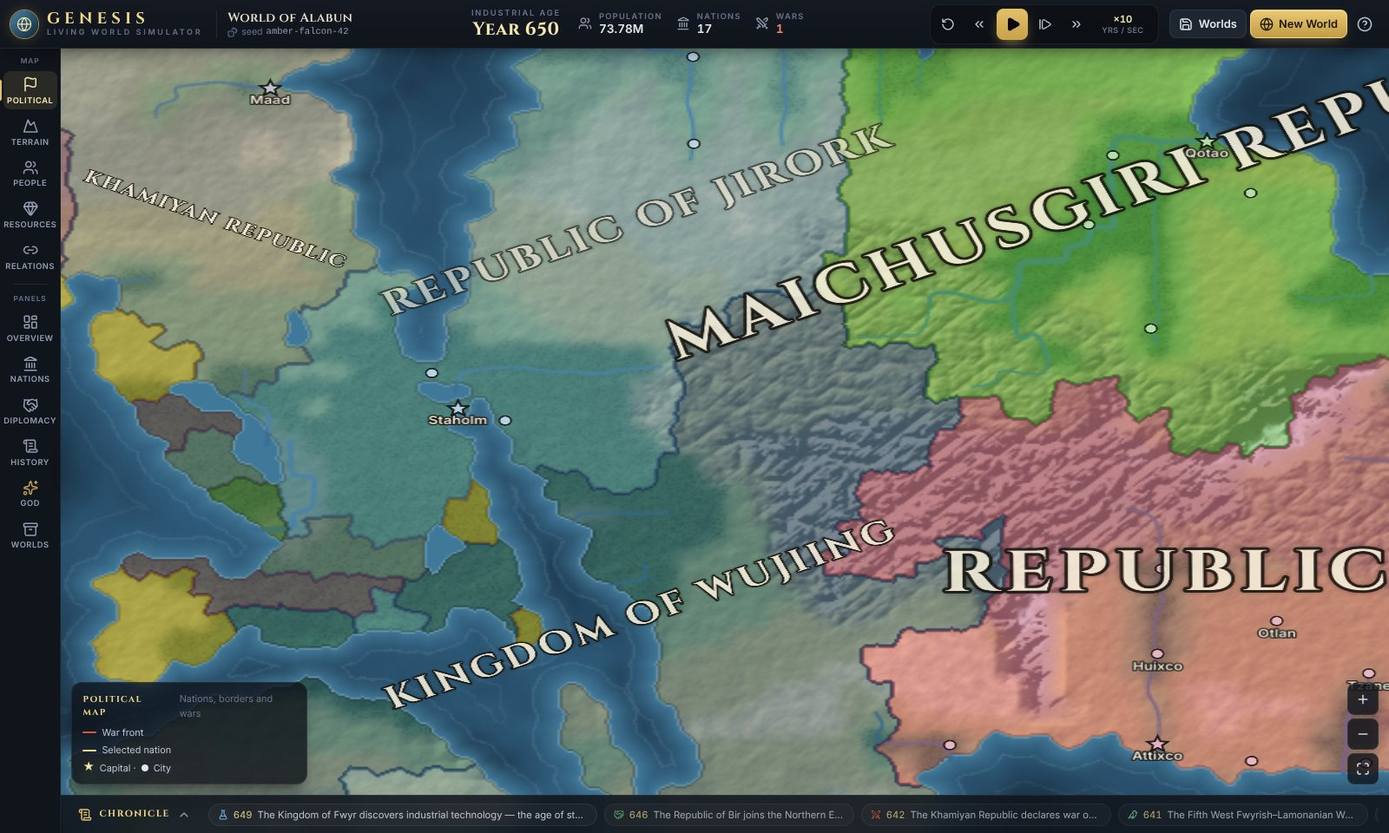
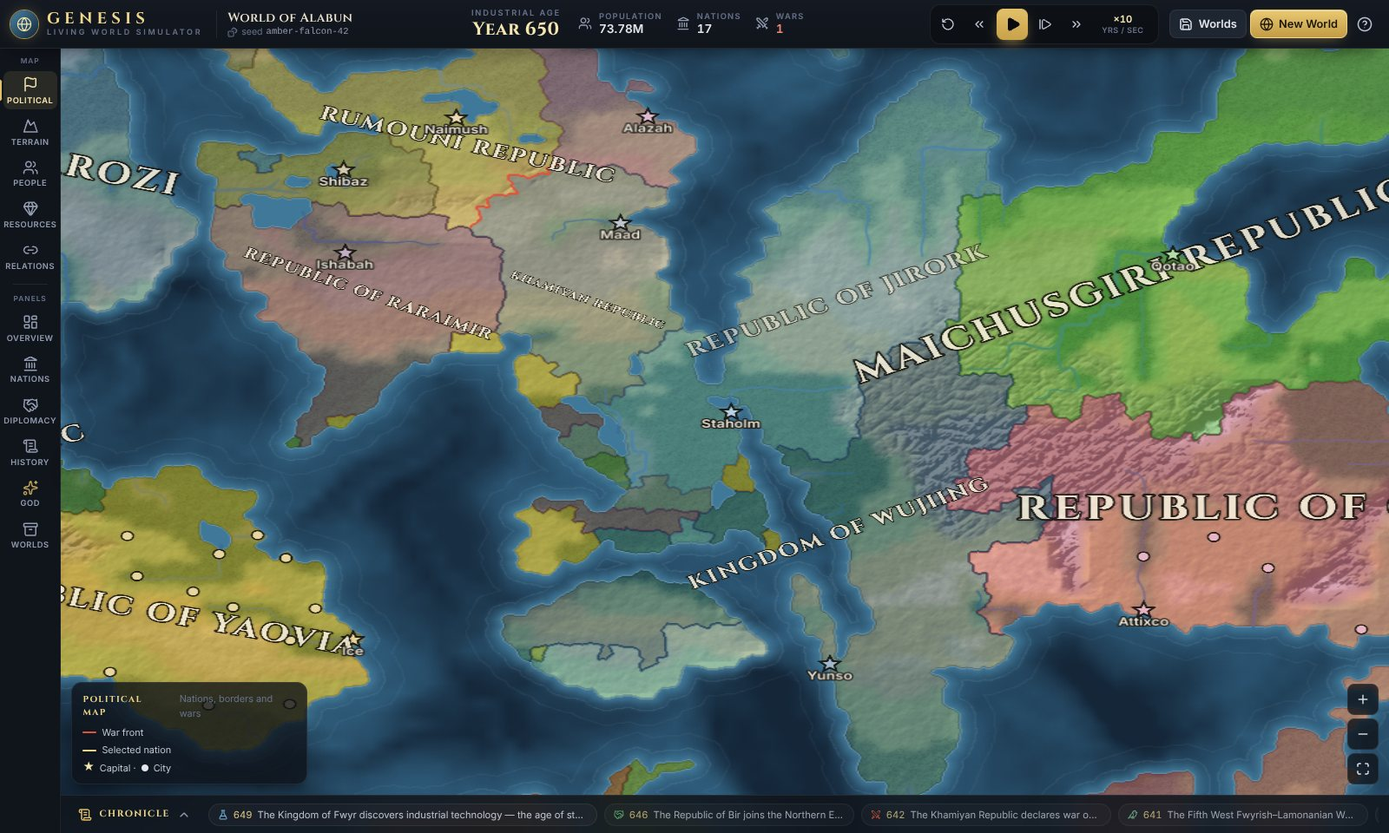
Align docs with the code; consistent map-mode names; Space starts history
An audit of README.md and ARCHITECTURE.md against the source turned up
claims that were overstated or imprecise. The docs now match the code:
- README: Shift+→ steps ten years; Esc and right-click rows; ? opens help;
  which actions ask for confirmation; the inspector's actual charts;
  capitals always marked; renderer fallbacks; seeded streams.
- ARCHITECTURE: forced wars log a war event; which cache parts are rebuilt
  when; revenue scales with stability; city spacing is measured through
  own territory; defection follows the parent's instability; the exact
  invariants and God Mode test coverage; overlay repaint cadence.

App changes that make the docs true instead of weakening them:
- The intro's "Let history begin" button takes focus, so Space or Enter
  starts the simulation.
- Map modes now have one set of names everywhere (Political, Terrain,
  Population, Resources, Relations) instead of the legend and help using
  Geographic and Diplomacy while the rail said Terrain and Relations.

Screenshots retaken with the new legend names.

Claude-Session: https://claude.ai/code/session_012uVSt1fJZfjZVTZBihtzJo

diff --git a/src/components/Dialogs.tsx b/src/components/Dialogs.tsx
@@ -161,7 +161,7 @@ function HelpDialog() {
         <div className="grid gap-3 md:grid-cols-2">
           <HelpItem icon={<Play />} title="Time">
             <p>
-              <span className="kbd">Space</span> plays or pauses. <span className="kbd">+</span>/<span className="kbd">-</span> change speed (1–80 years per second). <span className="kbd">.</span> advances one year while paused.
+              <span className="kbd">Space</span> plays or pauses. <span className="kbd">+</span>/<span className="kbd">-</span> change speed (1–80 years per second). <span className="kbd">.</span> or <span className="kbd">→</span> advances one year while paused, <span className="kbd">Shift</span>+<span className="kbd">→</span> ten years.
             </p>
           </HelpItem>
           <HelpItem icon={<MousePointerClick />} title="The map">
@@ -169,7 +169,7 @@ function HelpDialog() {
           </HelpItem>
           <HelpItem icon={<MapIcon />} title="Map modes">
             <p>
-              <span className="kbd">1</span> Political · <span className="kbd">2</span> Geographic · <span className="kbd">3</span> Population · <span className="kbd">4</span> Resources · <span className="kbd">5</span> Diplomacy (relations of the selected nation, or alliance blocs).
+              <span className="kbd">1</span> Political · <span className="kbd">2</span> Terrain · <span className="kbd">3</span> Population · <span className="kbd">4</span> Resources · <span className="kbd">5</span> Relations (of the selected nation, or alliance blocs when none is selected).
             </p>
           </HelpItem>
           <HelpItem icon={<Keyboard />} title="Panels">
@@ -188,6 +188,7 @@ function HelpDialog() {
           <button
             type="button"
             className="btn btn-gold px-6 py-2.5 text-[0.85rem]"
+            autoFocus
             onClick={() => {
               close();
               if (!running) controller.play();

diff --git a/src/rendering/overlay.ts b/src/rendering/overlay.ts
@@ -9,10 +9,10 @@ export type MapMode = 'political' | 'geographic' | 'population' | 'resources' | 
 
 export const MAP_MODES: { id: MapMode; label: string; key: string; description: string }[] = [
   { id: 'political', label: 'Political', key: '1', description: 'Nations, borders and wars' },
-  { id: 'geographic', label: 'Geographic', key: '2', description: 'Terrain, biomes and rivers' },
+  { id: 'geographic', label: 'Terrain', key: '2', description: 'Relief, biomes and rivers' },
   { id: 'population', label: 'Population', key: '3', description: 'Where people live' },
   { id: 'resources', label: 'Resources', key: '4', description: 'Strategic and luxury deposits' },
-  { id: 'diplomacy', label: 'Diplomacy', key: '5', description: 'Relations of the selected nation' },
+  { id: 'diplomacy', label: 'Relations', key: '5', description: 'Alliances, rivalries and wars' },
 ];
 
 /** Diplomatic categories used by the diplomacy map mode and its legend. */

diff --git a/ARCHITECTURE.md b/ARCHITECTURE.md
@@ -27,11 +27,11 @@ The simulation (`src/simulation`, `src/world`, `src/utils`) imports nothing from
 
 - **`WorldMap`** (static): typed arrays over a `width × height` grid (160×100 by default) holding elevation, temperature, moisture, biome, river magnitude and direction, resource deposit, landmass id, coastal flag and distance to shore. It also holds precomputed per-tile yields (food, timber, stone, iron, trade), movement cost, defensive value and settlement appeal.
 - **`World`** (dynamic): per-tile `owner`, `pop`, `culture`, `devastation`, `blight` and `cityAt`, plus arrays of `civs`, `cultures`, `cities`, `relations`, `wars`, `events`, global `history` samples, the `commandLog`, the RNG and the name registry.
-- **`Civ`**: identity (names, colour, culture, government, personality, leader), aggregates refreshed every year (population, territory, output, revenue, army power), stockpiles (food, timber, stone, iron, wealth), technology points and era, politics (stability, happiness, legitimacy, unrest, war exhaustion), budget shares, needs, effects (booms, golden ages, plague, fervour…), counters, and sampled history for charts. Dead nations stay in `world.civs` with `alive = false`, `extinctYear` and `fate`, so the archive keeps them.
+- **`Civ`**: identity (names, colour, culture, government, personality, leader), aggregates refreshed every year (population, territory, output, revenue, army power), stockpiles (food, timber, stone, iron, wealth), technology points and era, politics (stability, happiness, legitimacy, unrest, war exhaustion), budget shares, needs, effects (booms, golden ages, divine favour, turmoil, scientific revolutions, fervour), plague severity and immunity, counters, and sampled history for charts. Dead nations stay in `world.civs` with `alive = false`, `extinctYear` and `fate`, so the archive keeps them.
 - **`Relation`**: one record per pair that has met, holding opinion (−100..100), alliance (with a bloc name), trade, rivalry, truce, war count, grievance and the shared border length.
 - **`War`**: participants with sides, cause, war score, battles, losses, tiles and cities taken, and an outcome and summary once it ends.
 - **`HistoryEvent`**: year, type, involved nation ids, text, importance (1–5), map tile and war id.
-- **`WorldCache`**: derived data such as relation index, borders, per-civ tile lists, distance-to-city and distance-to-capital fields, and active wars. It is never saved. It is rebuilt from the authoritative state at the end of every year, after every God Mode command, and on load.
+- **`WorldCache`**: derived data such as relation index, borders, per-civ tile lists, distance-to-city and distance-to-capital fields, and active wars. It is never saved. Its territory data (tile lists, borders, distance fields) is rebuilt from the authoritative state at the end of every year and after every God Mode command. The relation index and active-war list are kept in sync as they change, and everything is rebuilt on load.
 
 ## World generation (`src/world/generate.ts`)
 
@@ -44,7 +44,7 @@ The simulation (`src/simulation`, `src/world`, `src/utils`) imports nothing from
 7. **Resources** (iron, gold, marble, timber, fish, horses, spices and fertile soil) are placed by biome rules and clustered with noise.
 8. **Yields** combine the biome base with river floodplains (deserts with rivers bloom), coasts, lakes, deposits and a cold penalty, and are summarised into a 0–1 appeal score.
 
-Generation is deterministic per seed and takes about 150 ms for 160×100.
+Generation is deterministic per seed and takes about 0.1 seconds for 160×100.
 
 ## The yearly tick (`src/simulation/engine.ts`)
 
@@ -68,14 +68,14 @@ All per-tile work happens in a handful of linear passes over the grid using prec
 
 - **Food.** Each tile's food capacity is `yield × 10 × era.food × (1 − blight) × (1 − 0.6·devastation)`, in thousand person-years. Production is `min(pop × labour, capacity)`, where labour productivity rises with the era. Consumption is one unit per thousand people. Nations pool their food. Surpluses fill granaries (about one year of reserves) and the excess is sold. Deficits are covered by limited, priced imports, and the rest is **famine**: mortality proportional to the shortfall, with cities hit hardest, plus unhappiness and instability.
 - **Rural population** grows logistically toward `capacity × era.ruralShare`. **Cities** add urban capacity driven by the surrounding countryside, trade, era, capital status and stability, and only grow while the nation has a food surplus. Migration evens out crowding between neighbouring tiles of the same nation, which drives urbanisation.
-- **Output** comes from people, trade yields, urban productivity, administrative **control** (distance to the nearest city and to the capital), devastation, the era's productivity, stability, effects, and trade agreements (scaled by both partners' economies). **Revenue** is output times the government's tax efficiency.
+- **Output** comes from people, trade yields, urban productivity, administrative **control** (distance to the nearest city and to the capital), devastation, the era's productivity, stability, effects, and trade agreements (scaled by both partners' economies). **Revenue** is output times the government's tax rate, scaled by stability.
 - **Budget.** Revenue is split between military, research and development. The split starts from personality traits and shifts with circumstances: war, losing a war, famine and land hunger.
 - **Army.** Recruits up to what the military budget can pay for and what manpower allows, which depends on government, aggression and wartime mobilisation. War chests can fund extra levies, unpaid armies desert, and iron shortages weaken troops. **Army power** = soldiers × era × government × leader × iron × horses × stability × exhaustion × fervour.
-- **Research** grows with `population^0.55` and the square root of research spending, multiplied by government, leader, personality, stability, peace, effects, and **diffusion** from more advanced trade partners and neighbours. The sub-linear terms stop runaway snowballing, so nations advance at very different speeds.
+- **Research** grows with `population^0.55` and the square root of research spending, multiplied by government, leader, personality, stability, peace, effects, and **diffusion** from more advanced trade partners and neighbours. The sub-linear terms stop runaway snowballing, while spending, government and diffusion still let nations advance at different speeds.
 
 ### Expansion and settlement (`expansion.ts`)
 
-Development spending builds *expansion points*; population pressure adds more. Each year a nation claims the best unclaimed tiles bordering its land. A tile's score combines appeal, the nation's current needs (food, iron, timber, stone), rivers, coasts and compactness, and its cost rises with movement cost and distance from the capital. Nations with a short frontier search overseas with a breadth-first search across the sea, whose reach grows with the era from 2 tiles to 200, and record their landings on new continents. *Development points* found cities at the best site at least five steps from existing cities, and rebuild ruins inside the nation's borders. Running out of land builds **land hunger**, which feeds war motives.
+Development spending builds *expansion points*; population pressure adds more. Each year a nation claims the best unclaimed tiles bordering its land. A tile's score combines appeal, the nation's current needs (food, iron, timber, stone), rivers, coasts and compactness, and its cost rises with movement cost and distance from the capital. Nations with a short frontier search overseas with a breadth-first search across the sea, whose reach grows with the era from 2 tiles to 200, and record their landings on new continents. *Development points* found cities (each costs timber and stone) at the best site at least five steps, through the nation's own territory, from its nearest city, and rebuild ruins inside its borders. Running out of land builds **land hunger**, which feeds war motives.
 
 ### Technology (`technology.ts`, `constants.ts`)
 
@@ -103,9 +103,9 @@ There are eight eras: Ancient, Classical, Medieval, Renaissance, Industrial, Mod
 - **Happiness** depends on food, prosperity per head, taxes for the army, war, exhaustion, plague, foreign rule and effects. **Stability** depends on government, leader, tradition, happiness, legitimacy, **overextension** (land beyond administrative capacity), war exhaustion, famine, plague, foreign populations, debt, effects and **regime ossification** (old dynasties lose their grip).
 - **Crises.** Low stability and low happiness build unrest, which can turn into one of these:
   - **Revolution**: the government changes in a way that fits the era, such as a monarchy becoming a republic, a coup creating a dictatorship, or a strongman proclaiming an empire.
-  - **Secession**: the most populous restless region breaks away. Garrisons defect, more so the weaker the parent. If the region's culture belonged to a fallen nation, that nation is **restored**. Rivals may intervene on the rebels' side.
+  - **Secession**: the most populous restless region breaks away. Garrisons defect, more so the less stable the parent. If the region's culture belonged to a fallen nation, that nation is **restored**. Rivals may intervene on the rebels' side.
   - **Civil war**: the realm splits between the capital and a distant great city, and the rebel faction takes the opposite style of government.
-- **Collapse.** Ten years of deep crisis break a nation into successor states around its great cities, often restorations of older nations. Ungoverned outlying land is abandoned to ruin, and the archive records "collapsed after N years".
+- **Collapse.** A nation that spends about ten years in deep crisis (stability below 12) breaks into successor states around its great cities, often restorations of older nations. Ungoverned outlying land is abandoned to ruin, and the archive records "collapsed after N years".
 - **Reforms.** Stable nations evolve peacefully: tribes unite into kingdoms, conquerors proclaim empires, merchant oligarchies take power, constitutions create republics, and multicultural modern states federate.
 
 ### Disasters and fortune (`disasters.ts`)
@@ -114,7 +114,7 @@ Droughts strike dry farmland. Earthquakes strike rugged, populated land. **Plagu
 
 ### God Mode (`commands.ts`)
 
-`executeCommand(world, command)` validates and applies an intervention between ticks, logs a `divine` event, and appends `{ year, command }` to `world.commandLog`. Commands: `spawn_civ`, `grant_resources`, `economic_boom`, `famine`, `plague`, `earthquake`, `flood`, `force_war`, `force_peace`, `tech_boost`, `destabilize`, `bless`. `advance(world, years, schedule)` replays a log deterministically.
+`executeCommand(world, command)` validates and applies an intervention between ticks, records it in the chronicle (as a `divine` event, except that a forced war is logged as a `war` event), and appends `{ year, command }` to `world.commandLog`. Commands: `spawn_civ`, `grant_resources`, `economic_boom`, `famine`, `plague`, `earthquake`, `flood`, `force_war`, `force_peace`, `tech_boost`, `destabilize`, `bless`. `advance(world, years, schedule)` replays a log deterministically.
 
 ## Determinism and persistence
 
@@ -135,26 +135,26 @@ Checked by the tests and when loading:
 - Cities match `cityAt`, and ruins have no owner.
 - Relations are ordered, unique, between living nations, with opinion in range.
 - Active wars have living participants on both sides, and no nation fights on both.
-- All numeric state is finite.
+- Tile populations, relation opinions and each nation's core figures (population, food, wealth, army, research, stability, happiness, iron, timber, stone) are finite. Stability stays within 0–100, and populations and armies are never negative.
 
 ## Rendering (`src/rendering`)
 
 - **Pixel grid.** The map is painted at about 1.6 megapixels (10 px per tile on the default map). Each pixel belongs to exactly one tile through a smooth domain warp. Coastlines follow a noise-perturbed bilinear iso-line of the land mask, and inland pixels go to the nearest **jittered** tile centre. Square tiles become irregular, organic cells. The same lookup is used for drawing and for mouse picking.
-- **Terrain painter** (pure, runs once per world): biome colours blended across cells and tinted by climate, an interpolated elevation field with ridged mountain detail, hillshading, snow, forest stipple, dunes, paper grain, an inked coastline, coastal shallows with old-chart contour lines, sea ice, and smoothed rivers drawn as curves whose width grows downstream.
-- **Overlay painter.** Per-tile fill colours for the current map mode, and two-pixel borders wherever the border key changes. Borders are coloured by nation, red on war fronts and gold for the selection. It repaints only when territory, the mode or the selection changes (population mode at most about twice a second) and uploads one texture.
-- **Labels.** Each nation's name sits at the pole of inaccessibility of its largest territory, rotated along the principal axis and sized to fit. Labels are measured with real text metrics, collision-checked with nudging and shrinking, and hidden when they would be illegibly small. Cities use a bitmap font and rank-based level of detail. Event pings and God Mode previews are drawn as vector graphics.
+- **Terrain painter** (pure, runs once per world): biome colours blended across cells and tinted by climate, an interpolated elevation field with ridged mountain detail, hillshading, snow, forest stipple, dunes, paper grain, an inked coastline, coastal shallows with old-chart contour lines, and sea ice. Rivers are then drawn on top as smoothed curves whose width grows downstream.
+- **Overlay painter.** Per-tile fill colours for the current map mode, and two-pixel borders wherever the border key changes. Borders are coloured by nation, red on war fronts and gold for the selection. It repaints when territory, the mode or the selection changes, and on every simulation update in the population and relations modes, at most about seven times a second (about twice a second in population mode). Each repaint uploads one texture.
+- **Labels.** Each nation's name sits near the pole of inaccessibility of its largest territory, tilted along its principal axis (up to about 24°) and sized to fit. Labels are measured with real text metrics, collision-checked with nudging and shrinking, and hidden when they would be illegibly small. Cities use a bitmap font and rank-based level of detail. Event pings and God Mode previews are drawn as vector graphics.
 - **Camera.** Zoom to cursor, drag and pinch, animated focus, and bounds clamping. Rendering is decoupled from simulation ticks.
 
 ## Interface and the loop (`src/store`, `src/components`)
 
 - `controller.ts` owns the simulation loop. Each animation frame converts elapsed time × speed into whole years and runs them within a 14 ms budget (with a capped backlog), then notifies the renderer and publishes a throttled `version` counter (about 5 Hz). New major events become map pings and rate-limited toasts.
-- Components read the mutable world directly and re-render when `version` changes. Heavy views (charts, long lists, the relations matrix) key their memos on a slower throttled version, and charts are memoised, so the interface stays responsive at high speed.
+- Components read the mutable world directly and re-render when `version` changes. Most heavy views, such as charts and the relations matrix, key their memos on a slower throttled version, and charts are memoised, so the interface stays responsive at high speed.
 - UI state (selection, panels, map mode, God Mode tool, dialogs) lives in a small Zustand store. Keyboard shortcuts, onboarding and confirmation dialogs are handled in `App.tsx` and `Dialogs.tsx`.
 
 ## Testing
 
 - `rng.test.ts`: determinism, state restore, distribution.
-- `worldgen.test.ts`: deterministic maps, sane geography, 8–14 uniquely named nations on valid land.
+- `worldgen.test.ts`: deterministic maps, sane geography, 8–14 uniquely named nations on valid land, and no real-world place or people names.
 - `simulation.test.ts`: a **1000-year smoke test** checking every invariant every 50 years, multi-seed invariant checks, and archive integrity.
 - `determinism.test.ts`: identical replays with scripted interventions, command-log replay, divergence when commands differ, and **save → load → continue** matching an uninterrupted run.
-- `interventions.test.ts`: every God Mode power has a measurable mechanical effect, invalid targets are rejected, and interventions are logged.
+- `interventions.test.ts`: every God Mode power applies and leaves the world valid, with a measurable effect checked for all but the flood. Invalid targets are rejected and not recorded, and divine events are logged.

diff --git a/README.md b/README.md
@@ -39,7 +39,7 @@ When you first open GENESIS it generates a world and shows a short introduction.
 | Action | How |
 |---|---|
 | Play / pause | <kbd>Space</kbd> or the gold button |
-| Advance one year (while paused) | <kbd>.</kbd> or <kbd>→</kbd> (<kbd>Shift</kbd> for ten years) |
+| Advance one year (while paused) | <kbd>.</kbd> or <kbd>→</kbd> (<kbd>Shift</kbd>+<kbd>→</kbd> for ten years) |
 | Speed (1 to 80 years per second) | <kbd>+</kbd> / <kbd>-</kbd> |
 | Reset the world to year 1 (same seed) | ↺ in the time controls |
 | Zoom / pan | mouse wheel or pinch / drag |
@@ -48,22 +48,24 @@ When you first open GENESIS it generates a world and shows a short introduction.
 | Panels | <kbd>O</kbd> Overview · <kbd>N</kbd> Nations & archive · <kbd>D</kbd> Diplomacy · <kbd>H</kbd> History · <kbd>G</kbd> God Mode |
 | Chronicle timeline | <kbd>T</kbd> |
 | Focus the selected nation | <kbd>F</kbd> |
-| Cancel a God Mode tool / close | <kbd>Esc</kbd> or right-click |
+| Cancel a God Mode power | <kbd>Esc</kbd> or right-click |
+| Close the inspector or a dialog | <kbd>Esc</kbd> |
+| How to play | <kbd>?</kbd> |
 
 ### What you'll see
 
-- **World map.** Painted terrain with relief shading, coastal shallows, rivers, lakes and polar ice. Nations are drawn as translucent overlays with two-tone borders, red war fronts and a gold outline for the selected nation. Nation names are placed and rotated like an atlas, and cities and capitals appear as you zoom in. Events flash on the map as pings.
+- **World map.** Painted terrain with relief shading, coastal shallows, rivers, lakes and polar ice. Nations are drawn as translucent overlays with two-tone borders, red war fronts and a gold outline for the selected nation. Nation names are placed and rotated like an atlas. Capitals are always marked, and more cities and their names appear as you zoom in. Events flash on the map as pings.
 - **Overview.** Year, population, nations, wars, the leading powers (largest, most populous, wealthiest, most advanced, mightiest army), world population and wars-over-time charts, rankings by seven metrics, the spread of technological ages, and recent major events.
-- **Nations.** Living nations, sortable and searchable, plus an **archive** of every fallen nation with its lifespan and fate. Fallen nations stay fully inspectable.
+- **Nations.** Living nations, sortable and searchable, plus an **archive** of every fallen nation with its lifespan and fate. Fallen nations stay inspectable: their fate, peak, wars, charts and history.
 - **Diplomacy.** Active wars (combatants, cause, duration, casualties, war score), alliance blocs, rivalries, a relations matrix, and recent peace treaties with their outcomes.
 - **History.** A searchable, filterable chronicle (by category, significance and nation).
 - **Chronicle timeline.** The whole of history on one strip: wars as bars, plus political, diplomatic, progress and catastrophe markers. Click any of them to jump to it.
-- **Inspector.** For any nation: government, personality, current ruler and trait, founding, age, era progress, stability, happiness, population, territory, cities, treasury, army, stockpiles and shortages, budget, allies, rivals, trade partners, wars, relations, accomplishments, a nation-specific timeline, and charts of how all of these changed over time. It updates live while time flows.
+- **Inspector.** For any nation: government, personality, current ruler and trait, founding, age, era progress, stability, happiness, population, territory, cities, treasury, army, stockpiles and shortages, budget, allies, rivals, trade partners, wars, relations, accomplishments and the nation's own timeline, with charts of its population, territory, stability, output, treasury and army over time. It updates live while time flows.
 
 ### God Mode
 
 - **Nation powers:** Bestow Riches, Economic Boom, Gift of Knowledge (scientific revolution), Divine Favour, Sow Discord.
-- **Map powers:** pick one, then click the map. A preview shows the area affected. Raise a Nation (on empty land, or as a rebel state carved out of an existing one), Famine, Plague, Earthquake, Great Flood.
+- **Map powers:** pick one, then click the map. A preview marks the target area, though a plague strikes the whole nation you click. Shift-click to strike again. The powers are Raise a Nation (on empty land, or as a rebel state carved out of an existing one), Famine, Plague, Earthquake and Great Flood.
 - **War and peace:** compel any nation to attack another, or impose peace on any war.
 
 Every intervention changes the simulation and is recorded in the history log and in the world's replay log.
@@ -75,13 +77,13 @@ Open the **Worlds** panel (the save icon in the top bar).
 - **Save new**, **Overwrite** and **Delete** manage saves in this browser. Saves live in IndexedDB, so you can keep several worlds.
 - **Export JSON** downloads a world file. **Import world file** loads one back and validates it first.
 - Save files are versioned (`format: "genesis-world"`, `version: 1`). They hold the whole state, including the random generator's position, so a loaded world continues exactly as it would have.
-- You're asked to confirm before overwriting, deleting, or replacing a world that has unsaved history.
+- You're asked to confirm before overwriting or deleting a save, resetting the world, or loading or importing over unsaved history. The New World dialog warns you when unsaved history will be replaced.
 
 ## Determinism
 
 The same seed with the same interventions applied in the same years always produces the same history, down to the last digit:
 
-- Every random decision comes from one seeded SFC32 generator stored in the world. Simulation code never calls `Math.random()`.
+- Every random decision in the simulation comes from one seeded SFC32 generator stored in the world, and world generation uses its own streams derived from the seed. Simulation code never calls `Math.random()`.
 - Time advances in fixed one-year steps, in a fixed order of systems.
 - Divine interventions run between steps and are recorded with their year, so they can be replayed (`advance(world, years, commandLog)`).
 - Saving and loading preserve the generator state and rebuild every derived cache from the saved state.
@@ -94,7 +96,7 @@ The test suite checks all of this: two identical runs, a replay of a recorded co
 src/
   simulation/   pure engine: genesis, economy, expansion, technology, diplomacy, war,
                 politics, disasters, God Mode commands, invariants, stats, save files
-  world/        procedural terrain: noise, continents, climate, rivers, lakes, biomes, resources
+  world/        procedural terrain: continents, climate, rivers, lakes, biomes, resources
   rendering/    PixiJS map renderer, terrain painter, overlays, labels, camera
   components/   React interface (top bar, rail, panels, inspector, timeline, dialogs)
   store/        Zustand state, simulation loop controller, IndexedDB persistence
@@ -124,7 +126,7 @@ React 19, TypeScript (strict), Vite 7, PixiJS 8, Zustand 5, Tailwind CSS 4, Rech
 
 ## Browser support
 
-GENESIS needs a recent desktop browser with WebGL (Chrome, Edge, Firefox or Safari). It works on tablets and phones too, though with a simplified layout. If WebGL isn't available, the app says so and the simulation keeps running.
+GENESIS needs a recent desktop browser with WebGL (Chrome, Edge, Firefox or Safari). It works on tablets and phones too, though with a simplified layout. Without WebGL, PixiJS falls back to WebGPU or its canvas renderer, though these fallbacks are untested. If no renderer can start, the app shows a "Map unavailable" notice and the simulation keeps running.
 
 ## License
 
